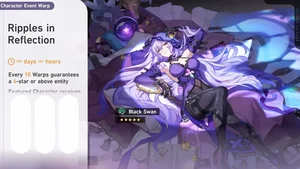
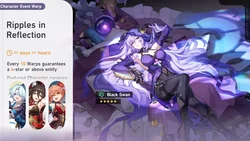
Unlock 1st phase of v2.0

diff --git a/src/routes/_allbanner/_version-item.svelte b/src/routes/_allbanner/_version-item.svelte
@@ -94,6 +94,7 @@
 <style>
 	.col {
 		flex-basis: 25%;
+		flex-grow: 1;
 		padding: 0 0.5%;
 		max-width: 300px;
 	}
